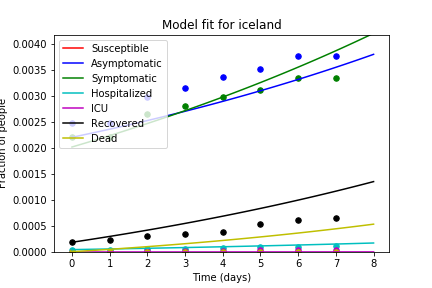
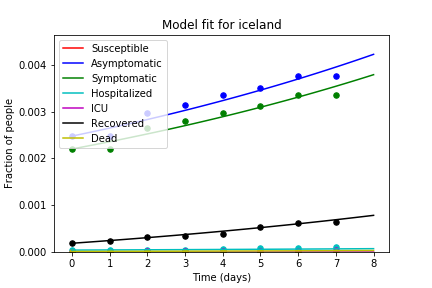
improved model: weights & sigmoid

diff --git a/function_lib_new.py b/function_lib_new.py
@@ -37,18 +37,17 @@ def populationModel(n, t, paras):
 
   TP = SP + IP1 + IP2 + IP3 + IP4 + RP
   cap_IC = paras['n_beds'].value / paras['pop_size'].value # Determines how many IC beds are available.
-
-  R_inf1 = paras['r_meeting1'].value * paras['r_infection1'].value * (SP / TP) * IP1 #infection rate 1: chance they susceptible people meet asymptomatic patients ánd that they are infected
-  R_inf2 = paras['r_meeting2'].value * paras['r_infection2'].value * (SP / TP) * IP2 #infection rate 2: people are infected by symptomatic patients
-  R_inf3 = paras['r_meeting3'].value * paras['r_infection3'].value * (SP / TP) * (IP3) #infection rate 3: people are infected by hospitalized patients
-  R_inf4 = paras['r_meeting4'].value * paras['r_infection4'].value * (SP / TP) * (IP4) #infection rate 3: people are infected by ICU patients
+  
+  #rates are calculated using an inverse sigmoid from r_meeting1 (before measures) to r_meeting1b (after measures)
+  R_inf1 = rate_sigmoid(paras['r_meeting1'].value, paras['r_meeting1b'].value, t, paras['measures_time'].value) * paras['r_infection1'].value * (SP / TP) * IP1 #infection rate 1: chance they susceptible people meet asymptomatic patients ánd that they are infected
+  R_inf2 = rate_sigmoid(paras['r_meeting2'].value, paras['r_meeting2b'].value, t, paras['measures_time'].value) * paras['r_infection2'].value * (SP / TP) * IP2 #infection rate 2: people are infected by symptomatic patients
+  R_inf3 = rate_sigmoid(paras['r_meeting3'].value, paras['r_meeting3b'].value, t, paras['measures_time'].value) * paras['r_infection3'].value * (SP / TP) * (IP3) #infection rate 3: people are infected by hospitalized patients
+  R_inf4 = rate_sigmoid(paras['r_meeting4'].value, paras['r_meeting4b'].value, t, paras['measures_time'].value) * paras['r_infection4'].value * (SP / TP) * (IP4) #infection rate 3: people are infected by ICU patients
   r_dicu = paras['r_d1'].value + logistic(IP4, cap_IC) * paras['r_d1'] * paras['r_d2']
   r_dhos = paras['r_d0']
-   
-  
   dn = np.empty(len(n)) #create an empty array to define the ODEs
-  
-  # v2.3
+    
+   # v2.3
   dn[0] = - R_inf1 - R_inf2 - R_inf3 - R_inf4
   dn[1] = + R_inf1 + R_inf2 + R_inf3 + R_inf4 - paras['r_sym'].value * IP1 - paras['r_im1'].value * IP1
   dn[2] = + paras['r_sym'].value * IP1 - paras['r_hos'].value * IP2 - paras['r_im2'].value * IP2 #- r_d * IP2 
@@ -75,8 +74,12 @@ def residual(paras, t, data):
 
     n0 = paras['n0_susc'].value, paras['n0_inf1'].value, paras['n0_inf2'].value, paras['n0_inf3'].value, paras['n0_inf4'].value, paras['n0_rec'].value, paras['n0_dead'].value
     model = g(t, n0, paras)
+    residual = model-data
+    #give hospitalized, ICU & dead people a higher weight
+    for i in [3,4,6]:
+        residual[:,i]=8*residual[:,i]
     
-    return (model - data).ravel()
+    return residual.ravel()
 
 def logistic(IP3, cap_IC):
     """ Creates a sigmoid shape that accomodates for the increase in death rate when the IC beds are full. You need this because otherwise the ODEs can not be solved. 
@@ -95,6 +98,28 @@ def logistic(IP3, cap_IC):
 
     """
     return np.exp(IP3 - cap_IC) / (np.exp(IP3 - cap_IC) + 1)
+
+def rate_sigmoid(r_meeting,r_meetingb,t,measures_time):
+    """
+    
+
+    Parameters
+    ----------
+    r_meeting : FLOAT
+        Rate at which people meet BEFORE measures.
+    r_meetingb : FLOAT
+        Rate at which people meet AFTER measures.
+    t : INT
+        Time.
+    measures_time : FLOAT
+        Time in days at which the measures were implemented.
+
+    Returns
+    -------
+    None.
+
+    """
+    return((r_meeting - r_meetingb)*(1-(1/(1+np.exp(-(t-measures_time)))))+ r_meetingb)
 
 def file_to_dict(filename):
     params = {}
@@ -140,25 +165,30 @@ def data_loader(filename,pop_size):
   
     return(data)
 
-def parameters(vals,country_data):
+def parameters(input_dict,country_data):
     params = Parameters() #special type of parameters as defined by the lmfit module
-    params.add('r_meeting1', value=vals[0], vary=False, min=0, max=15)
-    params.add('r_meeting2', value=vals[1], vary=False, min=0, max=7)
-    params.add('r_meeting3', value=vals[2], vary=True, min=0, max=4)
-    params.add('r_meeting4', value=vals[3], vary=True,min=0)
-    params.add('r_infection1', value=vals[4], vary=True,min=0)
-    params.add('r_infection2', value=vals[5], vary=True,min=0)
-    params.add('r_infection3', value=vals[6], vary=True,min=0)
-    params.add('r_infection4', value=vals[7], vary=True,min=0)
-    params.add('r_sym', value=vals[8], vary=True,min=0)
-    params.add('r_hos', value=vals[9], vary=True,min=0)
-    params.add('r_d1', value=vals[10], vary=True,min=0)
-    params.add('r_d2', value=vals[11], vary=True,min=0)
-    params.add('r_im1', value=vals[12], vary=True,min=0)
-    params.add('r_im2', value=vals[13], vary=True,min=0)
-    params.add('r_im3', value=vals[14], vary=True,min=0)
-    params.add('r_ic', value=vals[15], vary=True,min=0)
-    params.add('r_rehos', value=vals[16], vary=True,min=0)
+    params.add('r_meeting1', value=input_dict["r_meeting1"], vary=True, min=0)
+    params.add('r_meeting2', value=input_dict["r_meeting2"], vary=True, min=0)
+    params.add('r_meeting3', value=input_dict["r_meeting3"], vary=True, min=0)
+    params.add('r_meeting4', value=input_dict["r_meeting4"], vary=True,min=0)
+    params.add('r_meeting1b', value=input_dict["r_meeting1b"], vary=True, min=0)
+    params.add('r_meeting2b', value=input_dict["r_meeting2b"], vary=True, min=0)
+    params.add('r_meeting3b', value=input_dict["r_meeting3b"], vary=True, min=0)
+    params.add('r_meeting4b', value=input_dict["r_meeting4b"], vary=True,min=0)
+    params.add('r_infection1', value=input_dict["r_infection1"], vary=True,min=0)
+    params.add('r_infection2', value=input_dict["r_infection2"], vary=True,min=0)
+    params.add('r_infection3', value=input_dict["r_infection3"], vary=True,min=0)
+    params.add('r_infection4', value=input_dict["r_infection4"], vary=True,min=0)
+    params.add('r_sym', value=input_dict["r_sym"], vary=True,min=0)
+    params.add('r_hos', value=input_dict["r_hos"], vary=True,min=0)
+    params.add('r_d0', value=input_dict["r_d0"], vary=True,min=0)
+    params.add('r_d1', value=input_dict["r_d1"], vary=True,min=0)
+    params.add('r_d2', value=input_dict["r_d2"], vary=False,min=0)
+    params.add('r_im1', value=input_dict["r_im1"], vary=True,min=0)
+    params.add('r_im2', value=input_dict["r_im2"], vary=True,min=0)
+    params.add('r_im3', value=input_dict["r_im3"], vary=True,min=0)
+    params.add('r_ic', value=input_dict["r_ic"], vary=True,min=0)
+    params.add('r_rehos', value=input_dict["r_rehos"], vary=True,min=0)
     params.add('n0_susc', value=country_data[0,0], vary=False)
     params.add('n0_inf1', value=country_data[0,1], vary=False)
     params.add('n0_inf2', value=country_data[0,2], vary=False)
@@ -166,7 +196,8 @@ def parameters(vals,country_data):
     params.add('n0_inf4', value=country_data[0,4], vary=False)
     params.add('n0_rec', value=country_data[0,5], vary=False)
     params.add('n0_dead', value=country_data[0,6], vary=False)
-    params.add('n_beds', value=vals[24], vary=False)
-    params.add('pop_size', value=vals[25], vary=False)
-    params.add('r_d0', value=vals[26], vary=True,min=0)
+    params.add('n_beds', value=input_dict["n_beds"], vary=False)
+    params.add('pop_size', value=input_dict["pop_size"], vary=False)
+    params.add('measures_time', value=input_dict["measures_time"], vary=False)
+
     return params

diff --git a/infectionModel_v3.0.py b/infectionModel_v3.0.py
@@ -30,7 +30,7 @@ country_data = np.transpose(country_data)
 
 #Declaration of the input variables 
 vals = np.fromiter(input_dict.values(), dtype=float) #get values from dictionary
-params = parameters(vals,country_data) #define parameters, some are fixed and some are variable (see function_lib_new)
+params = parameters(input_dict,country_data) #define parameters, some are fixed and some are variable (see function_lib_new)
 n0 = [params['n0_susc'].value, params['n0_inf1'].value, params['n0_inf2'].value, #initial conditions
       params['n0_inf3'].value, params['n0_inf4'].value, params['n0_rec'].value, 
       params['n0_dead'].value]
@@ -62,7 +62,8 @@ ax1.legend(['Susceptible', 'Asymptomatic', 'Symptomatic', 'Hospitalized', 'ICU',
 ax1.set_title('Model fit for ' + country)
 ax1.set_ylabel('Fraction of people')
 ax1.set_xlabel('Time (days)')
-ax1.set_ylim([0, 1.1 * max(data_fitted[:, 1])])
+ax1.set_ylim([0,0.00020])
+#ax1.set_ylim([0, 1.1 * max(data_fitted[:, 1])])
 
 plt.show()
 fig1.savefig('figures/Model_fit_'+ country +'.png')
@@ -72,7 +73,9 @@ new_params = result.params
 data_fitted2 = g(t, n0, result.params)
 
 fig2, ax2 = plt.subplots()
-ax2.plot(t,data_fitted2)
+for i in range(0,np.size(country_data,1)):
+    ax2.plot(t,data_fitted2[:,i],color=colors[i])
+
 ax2.legend(['Susceptible', 'Asymptomatic', 'Symptomatic', 'Hospitalized', 'ICU', 'Recovered', 'Dead'], loc = "upper right")
 ax2.set_title('Population disease model with fitted rates')
 ax2.set_ylabel('Fraction of people')
